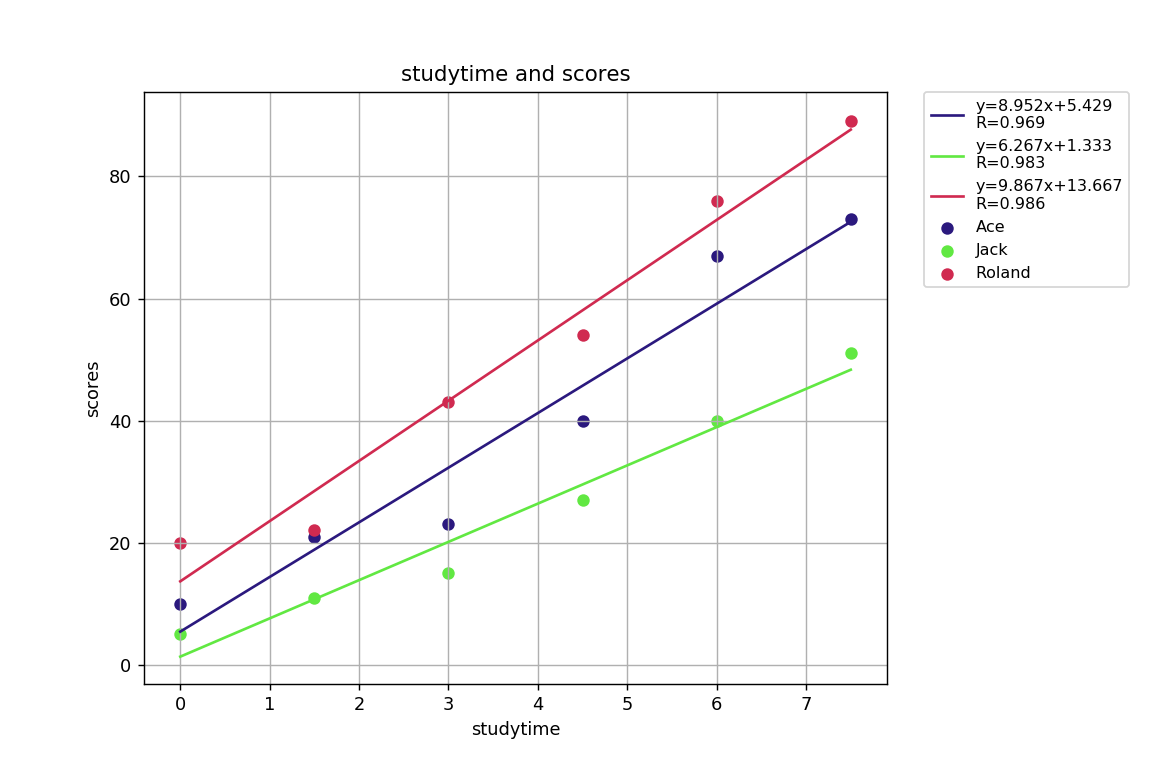
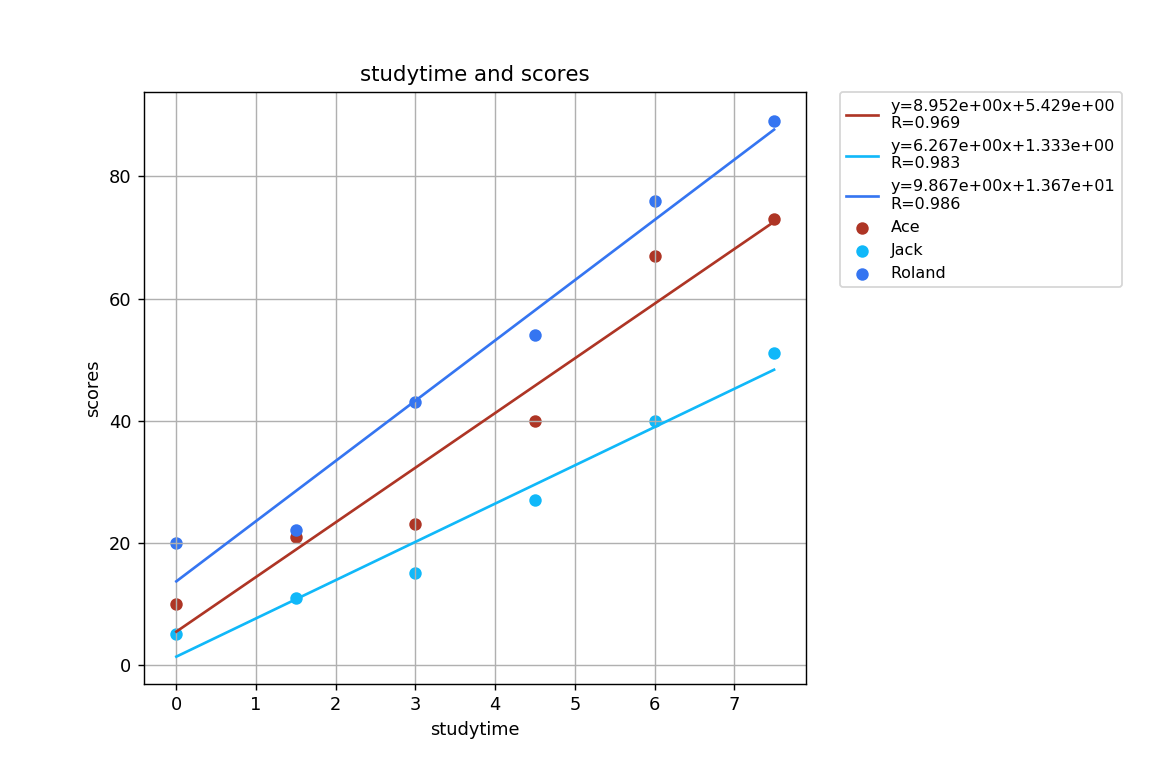
readmeの書き換え

diff --git a/readme.md b/readme.md
@@ -6,6 +6,9 @@
 > `plot_master2` を作りました。そちらの方が最新のものになります。
 > 以下の説明も`plot_master2`に対応したものです。
 
+> ### 追記 2019/6/22
+> ミカエリス・メンテン式に対応した近似曲線のプロットが可能になりました。
+
 ## 扱える表
 csv形式とtsv形式に対応しています。
 プロットするのに適しているのは、以下のようなものです。
@@ -48,20 +51,9 @@ $ python plot_master2.py input/sample.csv
 >>
 ```
 という標準出力が返ってきます。
-ここで「1」以外を入力すると、「グラフのタイトル」,「x軸のラベル」,「y軸のラベル」,「出力先のファイル名」が問われるので、続けて入力してください。
+ここで「1」以外を入力すると、「グラフのタイトル」,「x軸のラベル」,「y軸のラベル」,「出力先のファイル名」、「有効数字」が問われるので、続けて入力してください。
 何回もこれを手打ちするのは面倒かと思われるので、あらかじめグラフのタイトルなどを読み込むファイルに書いておくことで手間を省くことができます。
 その際は [sample_with_title.csv](https://github.com/utp2018th/plot-graph/blob/master/input/sample_with_title.csv) のように、
-１行目に「グラフのタイトル」,「x軸のラベル」,「y軸のラベル」,「出力先のファイル名」をカンマ区切り(tsvの場合はタブ区切り)で入力しておきましょう。
+１行目に「グラフのタイトル」,「x軸のラベル」,「y軸のラベル」,「出力先のファイル名」、「有効数字」をカンマ区切り(tsvの場合はタブ区切り)で入力しておきましょう。
 
 まだまだ未完成な部分もありますが使いたい人はどうぞw
-<<<<<<< HEAD
-=======
-
-
-### セガールの秘密をここに書いてね
-<<<<<<< HEAD
-
-### うんちが虹色♡
-=======
->>>>>>> root_branch/master
->>>>>>> b98accf509cd25b9c8325027620172721b196658
